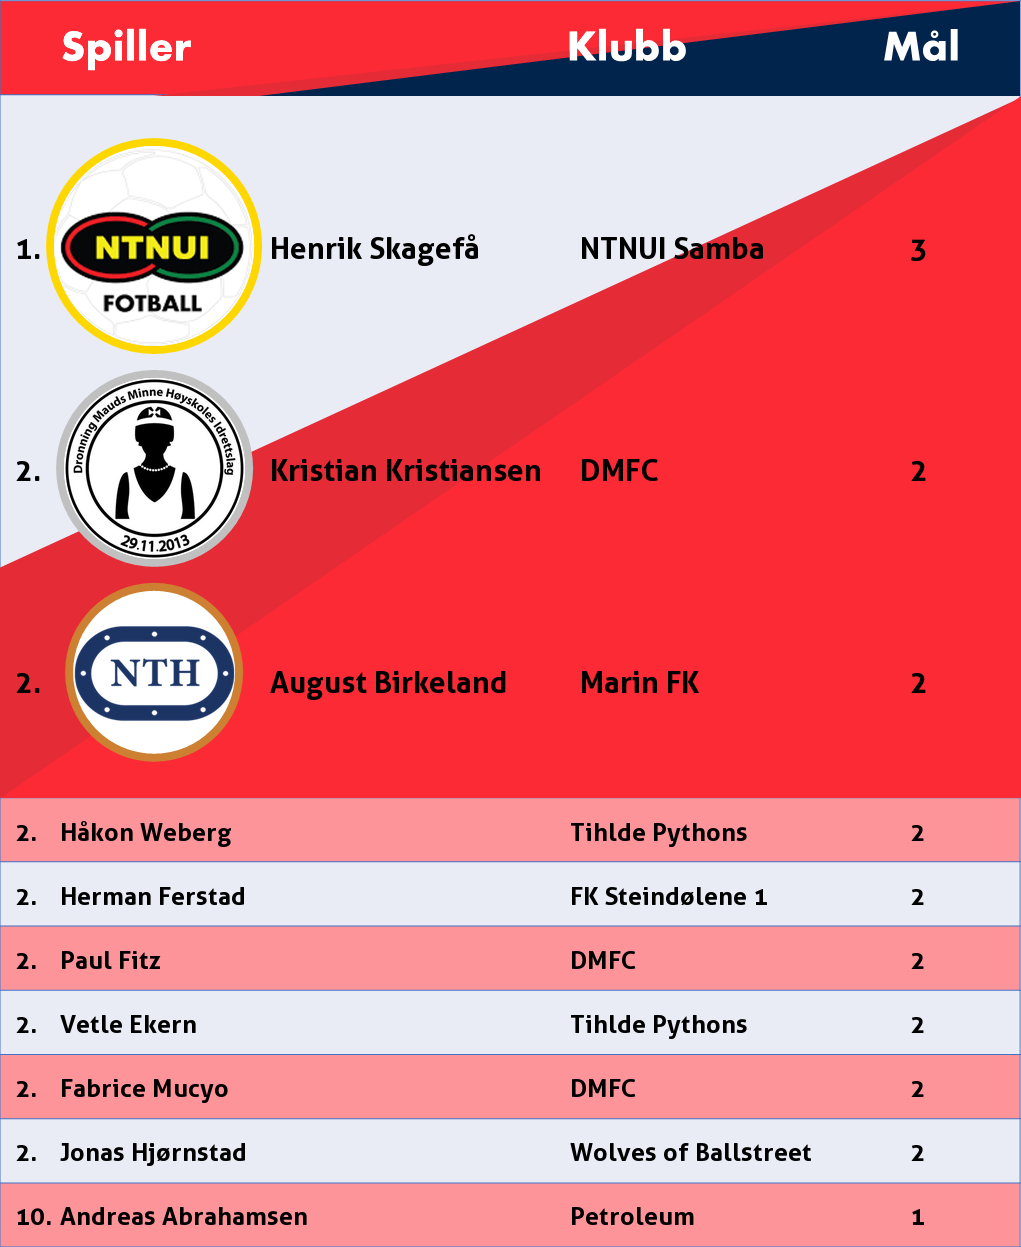
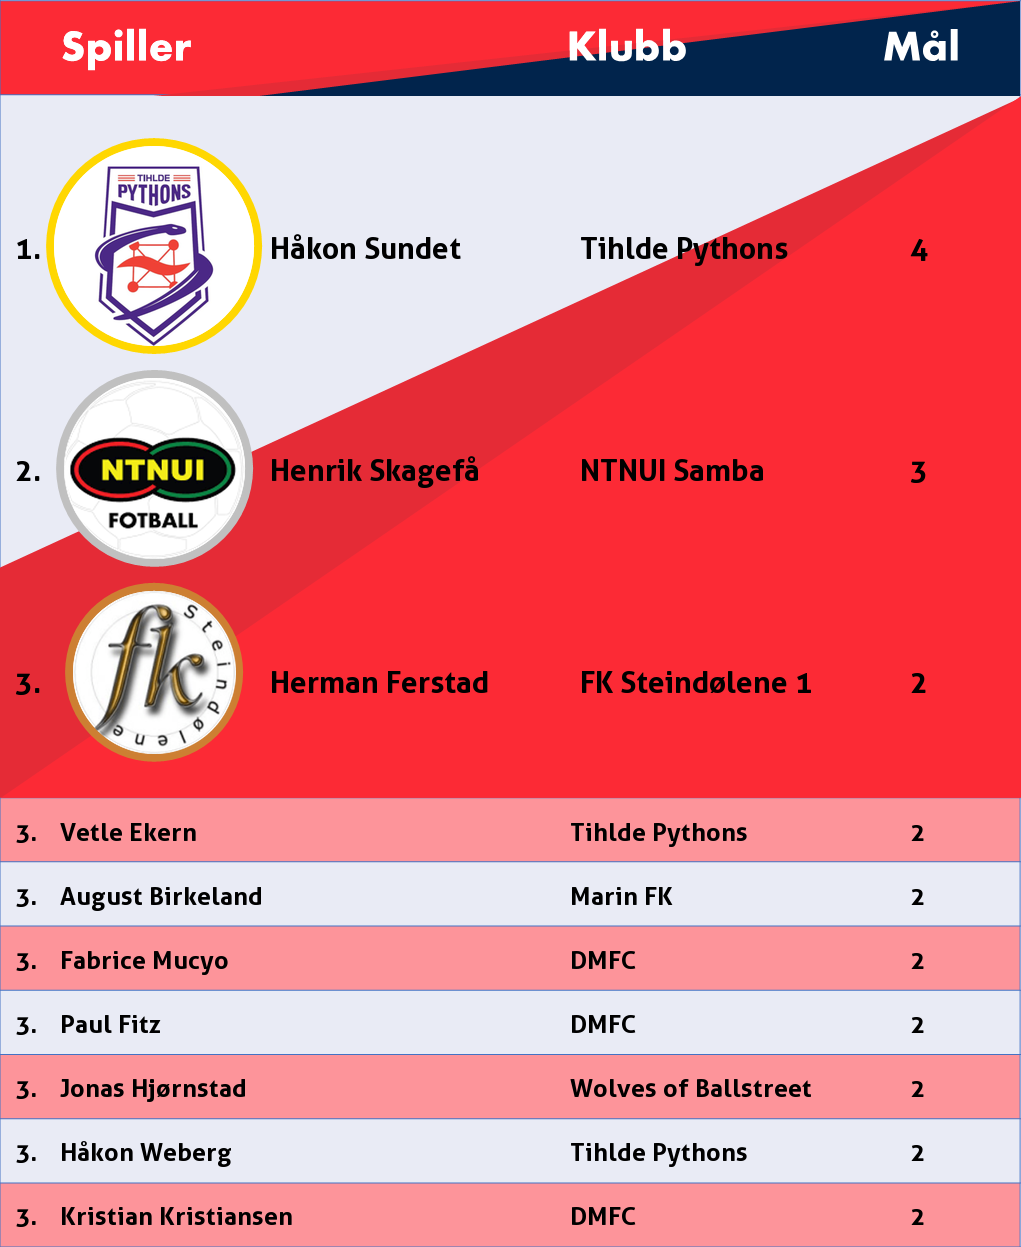
upd

diff --git a/Scripts/TopScorer.py b/Scripts/TopScorer.py
@@ -90,6 +90,6 @@ def main(avd):
 
 
 # Velg avdeling: A = 0, B = 1
-avd = 0
+avd = 1
 
 main(avd)
